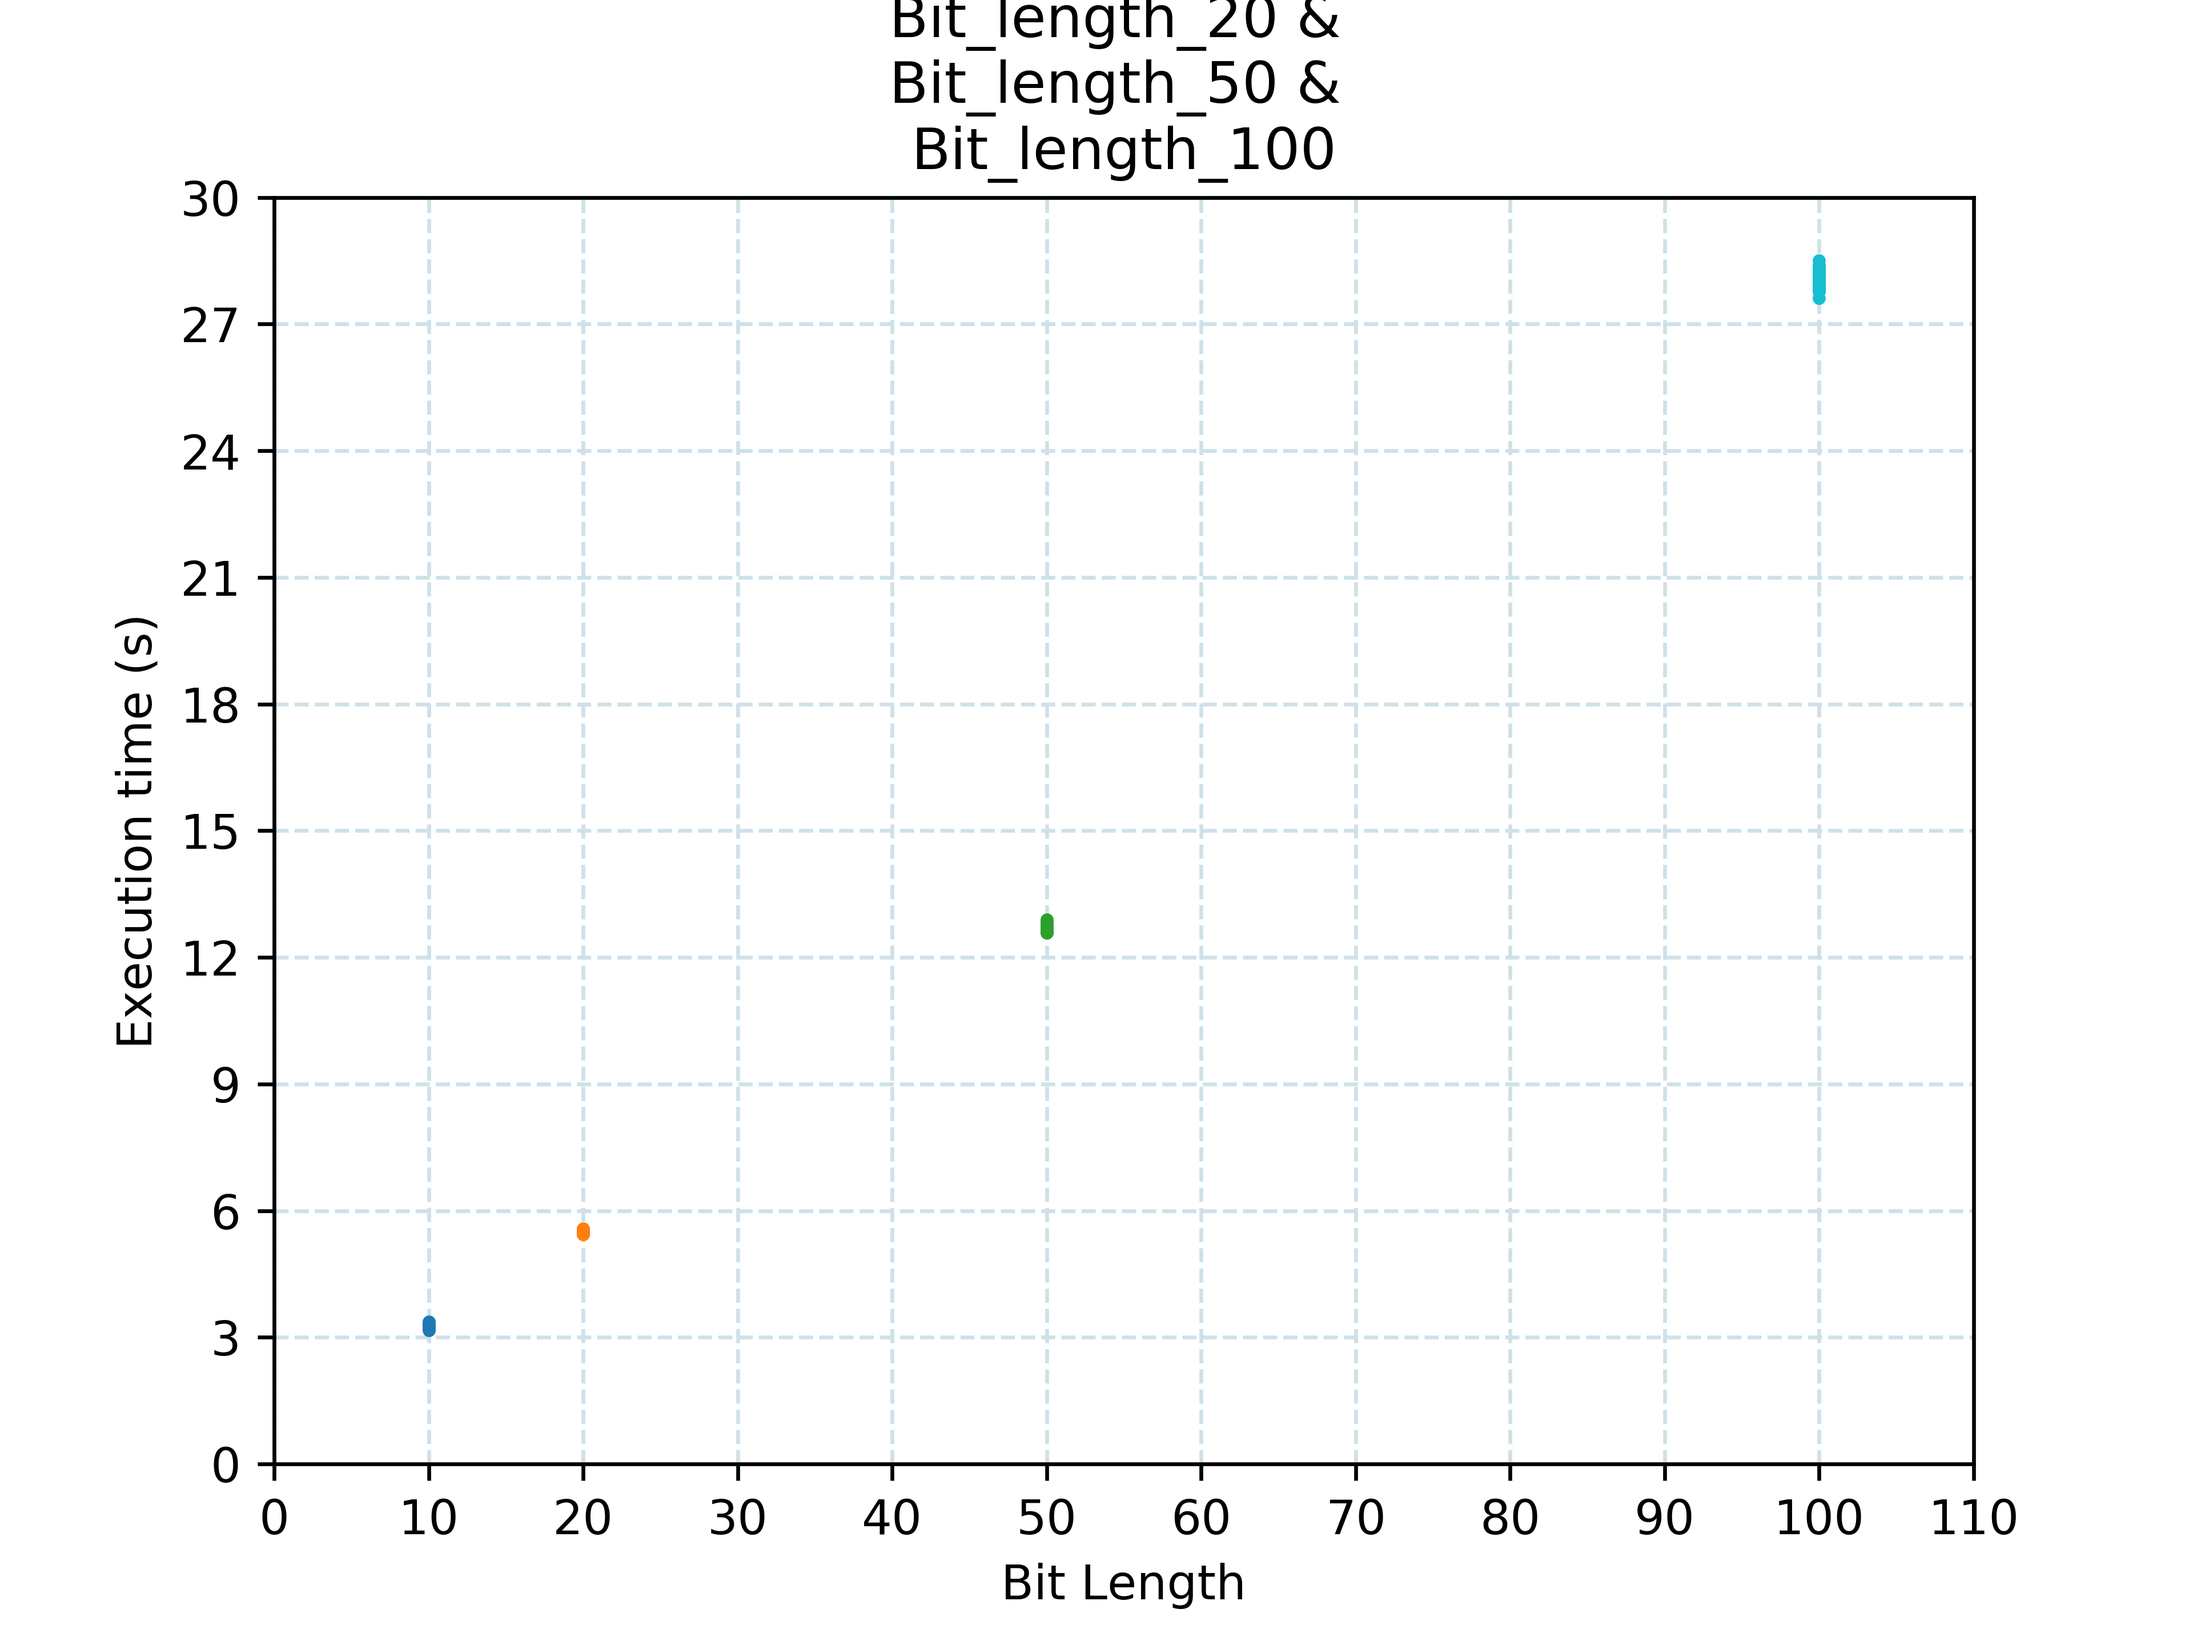
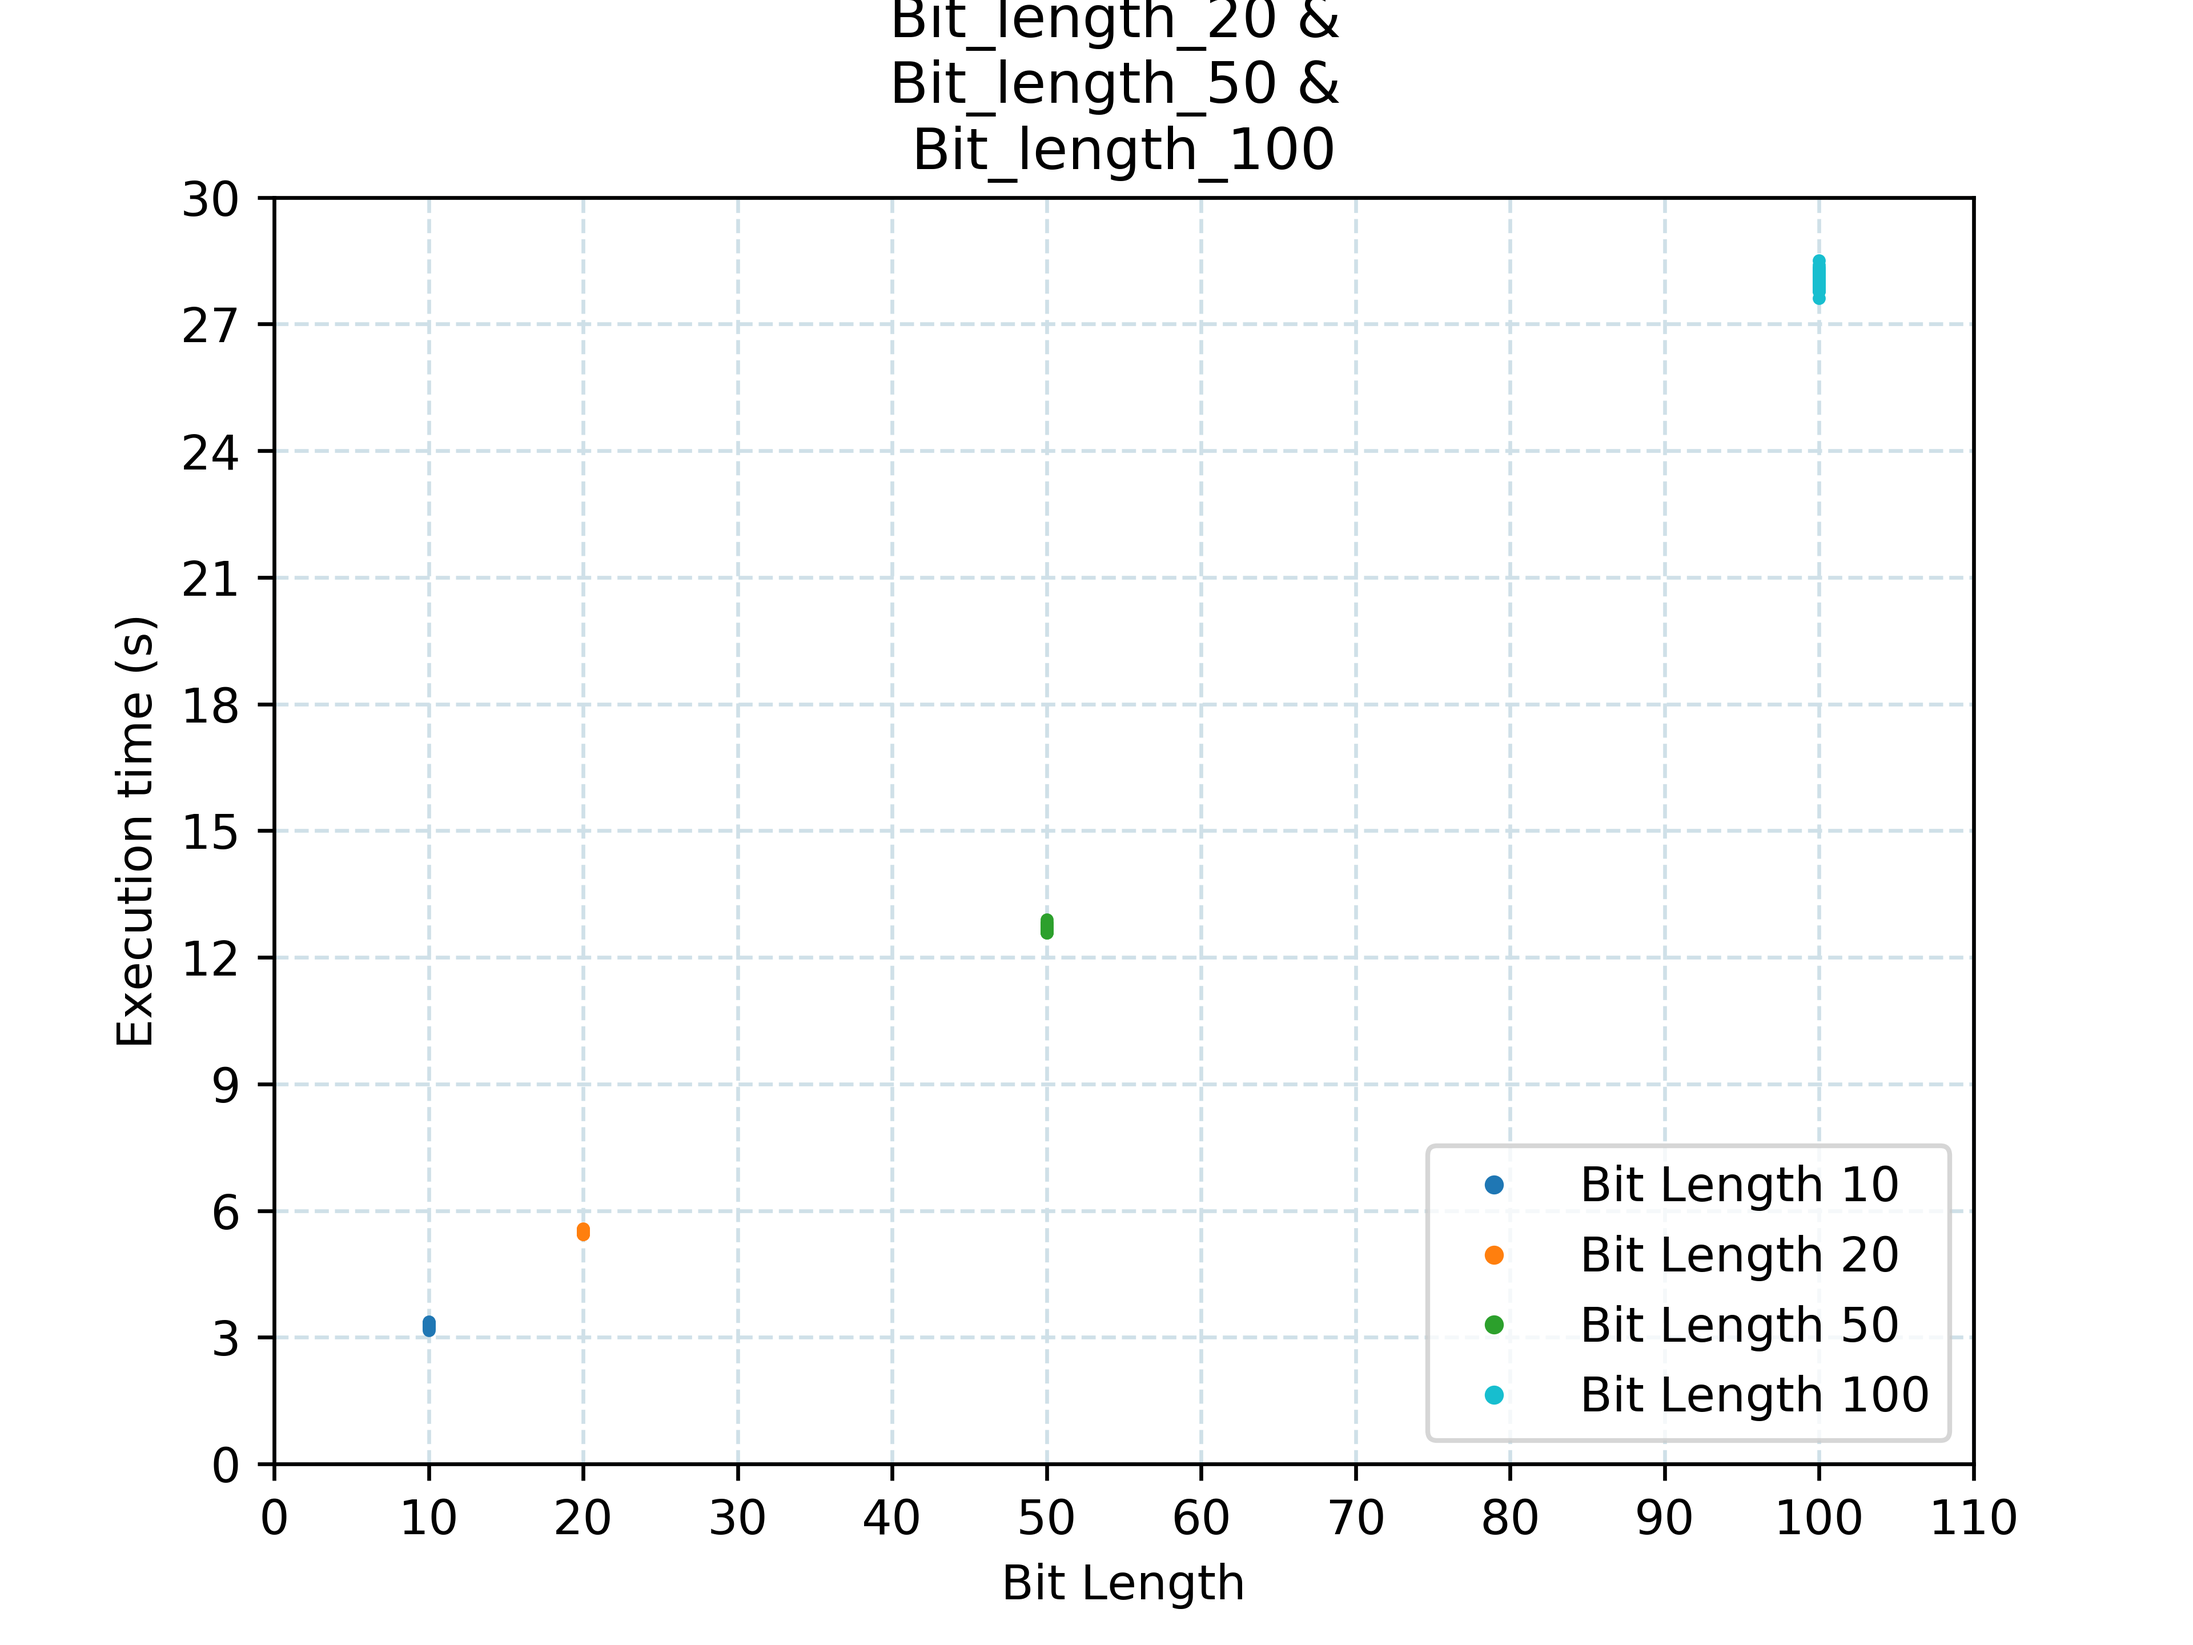
Graphs done

Changed region(s): [[0.6562, 0.6875, 0.9062, 0.875], [0.6562, 0.8438, 0.6875, 0.875]]

diff --git a/src/graph/createGraph.py b/src/graph/createGraph.py
@@ -72,7 +72,21 @@ def update_path_mod(g_mode, img_folder):
         img_folder += VLN_F
     else:
         print("ERROR: Incorrect mode")
+        print(g_mode)
     return img_folder
+
+
+def add_legend(g_mode, lgn_mode, plt_counter, lgn_pt_size):
+    # For violin graphs the legend does not work
+    if g_mode is VLN or g_mode is LN_MEDIAN:
+        return
+
+    # Add legend
+    lgnd = plt.legend(loc=lgn_mode, numpoints=1, fontsize=10)
+
+    # Set the size of the points in the legend
+    for i in range(0, plt_counter):
+        lgnd.legendHandles[i]._legmarker.set_markersize(lgn_pt_size)
 
 
 def single_graph(data, col, axis, axis_name,
@@ -96,10 +110,7 @@ def single_graph(data, col, axis, axis_name,
         plt_counter += 1
 
         # Add the legend to the graph
-        # lgnd = plt.legend(loc=lgn_mode, numpoints=1, fontsize=10)
-
-        # Set the size of the points in the legend
-        # lgnd.legendHandles[0]._legmarker.set_markersize(lgn_pt_size)
+        add_legend(g_mode, lgn_mode, plt_counter, lgn_pt_size)
 
         # Save graph as an image
         plt.savefig(img_folder + img[idx] + img_type, dpi=img_size)
@@ -147,11 +158,7 @@ def multiple_graph(data, col, axis, axis_name,
             name_plt += " & \n" + g_comp_name[i]
 
         # Add the legend to the graph
-        # lgnd = plt.legend(loc=lgn_mode, numpoints=1, fontsize=10)
-
-        # Set the size of the points in the legend
-        # for i in range(0, plt_counter):
-        #    lgnd.legendHandles[i]._legmarker.set_markersize(lgn_pt_size)
+        add_legend(g_mode, lgn_mode, plt_counter, lgn_pt_size)
 
         # Set the name for the comparison graph
         plt.title(name_plt)
@@ -204,11 +211,7 @@ def two_graphs(data, col, axis, axis_name,
             plt_counter += 1
 
             # Add the legend to the graph
-            # lgnd = plt.legend(loc=lgn_mode, numpoints=1, fontsize=10)
-
-            # Set the size of the points in the legend
-            # for i in range(0, plt_counter):
-            #     lgnd.legendHandles[i]._legmarker.set_markersize(lgn_pt_size)
+            add_legend(g_mode, lgn_mode, plt_counter, lgn_pt_size)
 
             # Set the name for the comparison graph
             plt.title(name_plt)
@@ -223,9 +226,11 @@ def create_graph():
     It creates the graphs for the CSV files created.
     Uses the data from graph_const and const
     """
-    # Reads the data from the csv files
-    mode = LN_MEDIAN  # Mode to use, change by the user
+    # Modes to use, change by the user - Median mode should be used alone
+    modes = [LN_MEDIAN]
+    colour = COLOUR  # This is for all the graphs but for the median
 
+    # Reads the data from the csv files
     data = readFiles([DATA_F + TIM_10_F + TIM_10_CSV,
                       DATA_F + TIM_20_F + TIM_20_CSV,
                       DATA_F + TIM_50_F + TIM_50_CSV,
@@ -234,29 +239,34 @@ def create_graph():
 
     # Check if there is no folder for the images
     create_folder(IMG_FOLDER_PATH)
+    # Check all the folders for the different type of graphs
     for mode_i in MODE_F:
         create_folder(IMG_FOLDER_PATH + mode_i)
 
-    if mode is LN_MEDIAN:
+    # Set the variables for the Median Graph, it is a special case
+    if LN_MEDIAN in modes:
         data = obtain_mean(data)
+        colour = [[COLOUR_FILL_MEDIAN, colour]]
 
-    # Creates single graphs
-    single_graph(data, COL_NM, AXIS, AXIS_NM,
-                 GRAPH_NM, mode, GRID_DISC, COLOUR,
-                 LGN_LR, PTN_SIZE_LGN, PTN_SIZE, LABEL,
-                 IMG_FOLDER_PATH, IMG, IMG_TYPE, IMG_SIZE)
+    # Create the graphs for all the different types specified
+    for mode in modes:
+        # Creates single graphs
+        single_graph(data, COL_NM, AXIS, AXIS_NM,
+                     GRAPH_NM, mode, GRID_DISC, colour,
+                     LGN_LR, PTN_SIZE_LGN, PTN_SIZE, LABEL,
+                     IMG_FOLDER_PATH, IMG, IMG_TYPE, IMG_SIZE)
 
-    # Creates comparison graphs
-    multiple_graph(data, COL_NM, AXIS, AXIS_NM,
-                   GRAPH_NM, GRAPH_COMP_NM, mode, GRID_DISC, GRID_COLOUR, COLOUR,
+        # Creates comparison graphs
+        multiple_graph(data, COL_NM, AXIS, AXIS_NM,
+                       GRAPH_NM, GRAPH_COMP_NM, mode, GRID_DISC, GRID_COLOUR, colour,
+                       LGN_LR, PTN_SIZE_LGN, PTN_SIZE, LABEL,
+                       IMG_FOLDER_PATH, IMG, IMG_TYPE, IMG_SIZE)
+
+        # Creates comparison of two graphs
+        two_graphs(data, COL_NM, AXIS, AXIS_NM,
+                   GRAPH_NM, GRAPH_COMP_NM, mode, GRID_DISC, GRID_COLOUR, colour,
                    LGN_LR, PTN_SIZE_LGN, PTN_SIZE, LABEL,
                    IMG_FOLDER_PATH, IMG, IMG_TYPE, IMG_SIZE)
-
-    # Creates comparison of two graphs
-    two_graphs(data, COL_NM, AXIS, AXIS_NM,
-               GRAPH_NM, GRAPH_COMP_NM, mode, GRID_DISC, GRID_COLOUR, COLOUR,
-               LGN_LR, PTN_SIZE_LGN, PTN_SIZE, LABEL,
-               IMG_FOLDER_PATH, IMG, IMG_TYPE, IMG_SIZE)
 
 
 def createPlots(c1, c2, data, label, colour,
@@ -278,14 +288,26 @@ def createPlots(c1, c2, data, label, colour,
     elif mode is LN_DISC:
         plt.plot(x, y, label=label, marker='.', markersize=np.sqrt(point_size[1]), color=colour, linestyle=':')
         plt.fill_between(x, y, alpha=0.4, color=colour)
-        # plt.axvline(x=15)
+
 
     elif mode is LN_MEDIAN:
-        plt.plot(x, y, label=label, marker='.', markersize=np.sqrt(point_size[1]), color=colour, linestyle=':')
-        plt.fill_between(x, y, alpha=0.4, color=colour)
-        for idx, xc in enumerate(x):
-            plt.axvline(x=xc, ymax=y[idx], ymin=0)
-            print(y[idx])
+        grid_col = colour[0]
+        graph_col = colour[1]
+        plt.plot(x, y, label=label, marker='.', markersize=np.sqrt(point_size[1]), color=grid_col, linestyle=':')
+        plt.fill_between(x, y, alpha=0.2, color=grid_col)
+        for idx, x_i in enumerate(x):
+            # Vertical line
+            plt.plot((x_i, x_i), (0, y[idx]), alpha=0.7, color=graph_col[idx], linestyle="dashed")
+
+            # Horizontal line
+            plt.plot((0, x_i), (y[idx], y[idx]), alpha=0.7, color=graph_col[idx], linestyle="dashed")
+
+            # Point
+            plt.plot(x_i, y[idx], 'o', markersize=3,  alpha=0.7, color=graph_col[idx])
+
+        # Set colour variable to set the grid
+        colour = grid_col
+
 
     elif mode is VLN:
         violin_parts = plt.violinplot(y, [x[1]], points=100, widths=4, showmeans=True,
@@ -299,9 +321,8 @@ def createPlots(c1, c2, data, label, colour,
         for part in violin_parts['bodies']:
             part.set_color(colour)
             part.set_alpha(0.3)
-            # part.set_edgecolor('black')
 
-        # Incorrect plot mode
+    # Incorrect plot mode
     else:
         print("ERROR: Wrong plot mode")
         return -1

diff --git a/src/constants/graph_const.py b/src/constants/graph_const.py
@@ -15,17 +15,19 @@ AXIS = [
 
 # Names for the axis
 AXIS_NM = [
-    "Bit Length",
+    "Bit Length (bits)",
     "Execution time (s)"
 ]
 
 # Colours for the different graphs
 COLOUR = [
     "tab:blue",
-    "tab:orange",
+    "coral",
     "tab:green",
-    "tab:cyan"
+    "gold"
 ]
+
+COLOUR_FILL_MEDIAN = "cornflowerblue"
 
 # Default colour for the grid for comparison graphs
 GRID_COLOUR = '#cfe0e8'
@@ -55,7 +57,7 @@ LABEL = [
 
 # Names for the different graphs
 GRAPH_NM = [
-    "Bit length 10",
+    "Comparison of Execution time Along Input Bit Length",
     "Bit length 20",
     "Bit length 50",
     "Bit length 100"
@@ -92,7 +94,8 @@ LN_MEDIAN_F = "line_median/"
 VLN = "VLN"
 VLN_F = "violin/"
 
-MODE_F = [PTN_F, LN_DISC_F, VLN_F, LN_MEDIAN_F]
+ALL_MODES = [PTN, LN_DISC, VLN]
+MODE_F = [PTN_F, LN_DISC_F, LN_MEDIAN_F, VLN_F]
 
 ############# Modes for the Grid Linestyle  #############
 GRID_DISC = '--'
